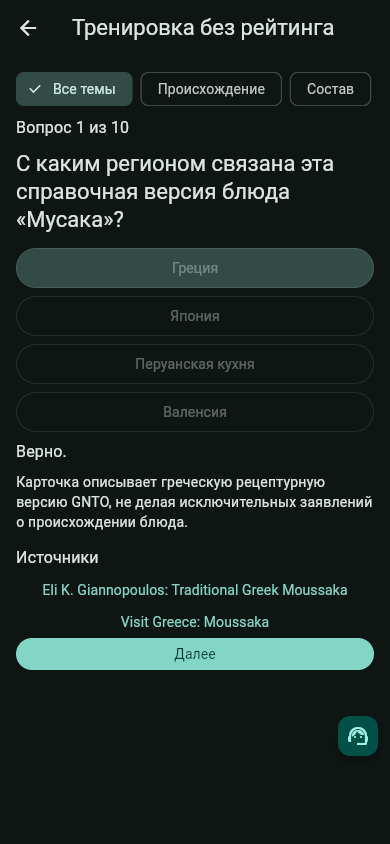
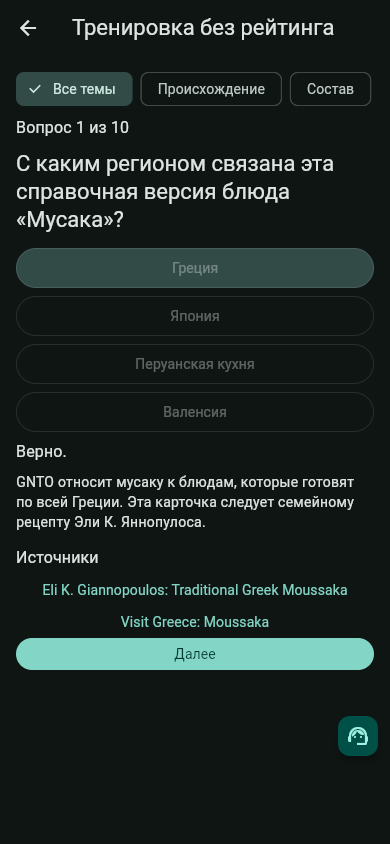
Record isolated food atlas and release verification

Changed region(s): [[0.0308, 0.5545, 0.9538, 0.6469]]

diff --git a/docs/rewrite-agents/tasks/FOOD_VLYD/INTEGRATION.md b/docs/rewrite-agents/tasks/FOOD_VLYD/INTEGRATION.md
@@ -50,3 +50,9 @@ release-mobile.png and practice-release-mobile.png capture final layout.
 After the final accepted origin metadata, Russian proofreading corrected only
 свежое to свежее in the ceviche ingredient label. Recipe meaning is unchanged.
 Final registry/navigation tests and the release build were rerun on this asset.
+
+Implementation commit: afebc38a. A clean sparse checkout pulled/rebased against
+origin/codex/quiz-v2 and confirmed HEAD up to date before isolated tests.
+
+Isolated committed checkout:26 focused food/model/registry/menu/Quizipedia tests
+passed (clean-checkout-tests.log), with offline dependency resolution.
